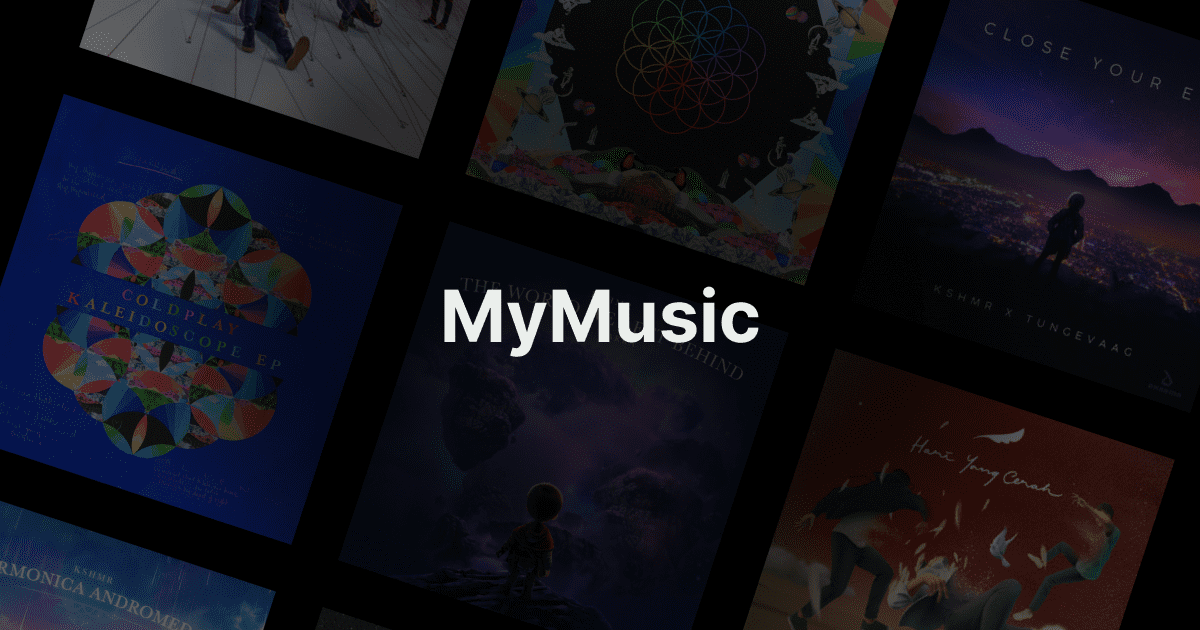
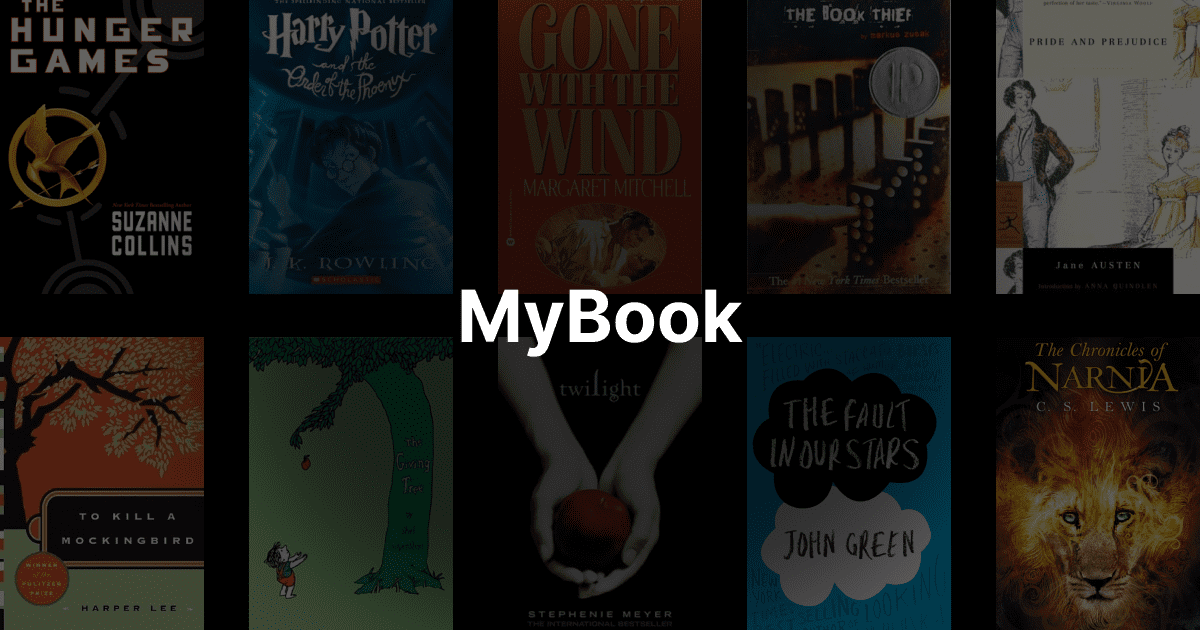
fix og image

diff --git a/pages/api/og.tsx b/pages/api/og.tsx
@@ -29,6 +29,7 @@ export default async function handler(req: NextApiRequest) {
             alt='bg'
             width='100%'
             height='100%'
+            // FIX OG Image
             src={`${process.env.NEXT_PUBLIC_API_ROUTE}/ogs.png`}
             style={{
               position: 'absolute',
@@ -41,17 +42,18 @@ export default async function handler(req: NextApiRequest) {
               xmlns='http://www.w3.org/2000/svg'
               fill='none'
               viewBox='0 0 24 24'
-              strokeWidth={1.5}
+              stroke-width='3'
               stroke='currentColor'
               className='h-6 w-6'
             >
               <path
                 strokeLinecap='round'
                 strokeLinejoin='round'
-                d='M3.375 19.5h17.25m-17.25 0a1.125 1.125 0 01-1.125-1.125M3.375 19.5h1.5C5.496 19.5 6 18.996 6 18.375m-3.75 0V5.625m0 12.75v-1.5c0-.621.504-1.125 1.125-1.125m18.375 2.625V5.625m0 12.75c0 .621-.504 1.125-1.125 1.125m1.125-1.125v-1.5c0-.621-.504-1.125-1.125-1.125m0 3.75h-1.5A1.125 1.125 0 0118 18.375M20.625 4.5H3.375m17.25 0c.621 0 1.125.504 1.125 1.125M20.625 4.5h-1.5C18.504 4.5 18 5.004 18 5.625m3.75 0v1.5c0 .621-.504 1.125-1.125 1.125M3.375 4.5c-.621 0-1.125.504-1.125 1.125M3.375 4.5h1.5C5.496 4.5 6 5.004 6 5.625m-3.75 0v1.5c0 .621.504 1.125 1.125 1.125m0 0h1.5m-1.5 0c-.621 0-1.125.504-1.125 1.125v1.5c0 .621.504 1.125 1.125 1.125m1.5-3.75C5.496 8.25 6 7.746 6 7.125v-1.5M4.875 8.25C5.496 8.25 6 8.754 6 9.375v1.5m0-5.25v5.25m0-5.25C6 5.004 6.504 4.5 7.125 4.5h9.75c.621 0 1.125.504 1.125 1.125m1.125 2.625h1.5m-1.5 0A1.125 1.125 0 0118 7.125v-1.5m1.125 2.625c-.621 0-1.125.504-1.125 1.125v1.5m2.625-2.625c.621 0 1.125.504 1.125 1.125v1.5c0 .621-.504 1.125-1.125 1.125M18 5.625v5.25M7.125 12h9.75m-9.75 0A1.125 1.125 0 016 10.875M7.125 12C6.504 12 6 12.504 6 13.125m0-2.25C6 11.496 5.496 12 4.875 12M18 10.875c0 .621-.504 1.125-1.125 1.125M18 10.875c0 .621.504 1.125 1.125 1.125m-2.25 0c.621 0 1.125.504 1.125 1.125m-12 5.25v-5.25m0 5.25c0 .621.504 1.125 1.125 1.125h9.75c.621 0 1.125-.504 1.125-1.125m-12 0v-1.5c0-.621-.504-1.125-1.125-1.125M18 18.375v-5.25m0 5.25v-1.5c0-.621.504-1.125 1.125-1.125M18 13.125v1.5c0 .621.504 1.125 1.125 1.125M18 13.125c0-.621.504-1.125 1.125-1.125M6 13.125v1.5c0 .621-.504 1.125-1.125 1.125M6 13.125C6 12.504 5.496 12 4.875 12m-1.5 0h1.5m-1.5 0c-.621 0-1.125.504-1.125 1.125v1.5c0 .621.504 1.125 1.125 1.125M19.125 12h1.5m0 0c.621 0 1.125.504 1.125 1.125v1.5c0 .621-.504 1.125-1.125 1.125m-17.25 0h1.5m14.25 0h1.5'
+                d='M12 6.042A8.967 8.967 0 006 3.75c-1.052 0-2.062.18-3 .512v14.25A8.987 8.987 0 016 18c2.305 0 4.408.867 6 2.292m0-14.25a8.966 8.966 0 016-2.292c1.052 0 2.062.18 3 .512v14.25A8.987 8.987 0 0018 18a8.967 8.967 0 00-6 2.292m0-14.25v14.25'
               />
             </svg>
             <p
+              className='font-extrabold'
               tw='text-3xl font-extrabold ml-2'
               style={{
                 fontWeight: 700,
@@ -68,10 +70,10 @@ export default async function handler(req: NextApiRequest) {
               lineHeight: 1.1,
               textShadow: '0 2px 30px #000',
               letterSpacing: -4,
-              backgroundImage: 'linear-gradient(90deg, #fff 40%, #aaa)',
-              backgroundClip: 'text',
-              WebkitBackgroundClip: 'text',
-              color: 'transparent',
+              // backgroundImage: 'linear-gradient(90deg, #fff 40%, #aaa)',
+              // backgroundClip: 'text',
+              // WebkitBackgroundClip: 'text',
+              color: 'white',
             }}
           >
             {title}
@@ -88,7 +90,7 @@ export default async function handler(req: NextApiRequest) {
               color: '#fff',
             }}
           >
-            With MyBook, its easy to find the right music for every moment.
+            With MyBook, its easy to find books you love, and keep track of the books you want to read.
           </p>
         </div>
       ),
